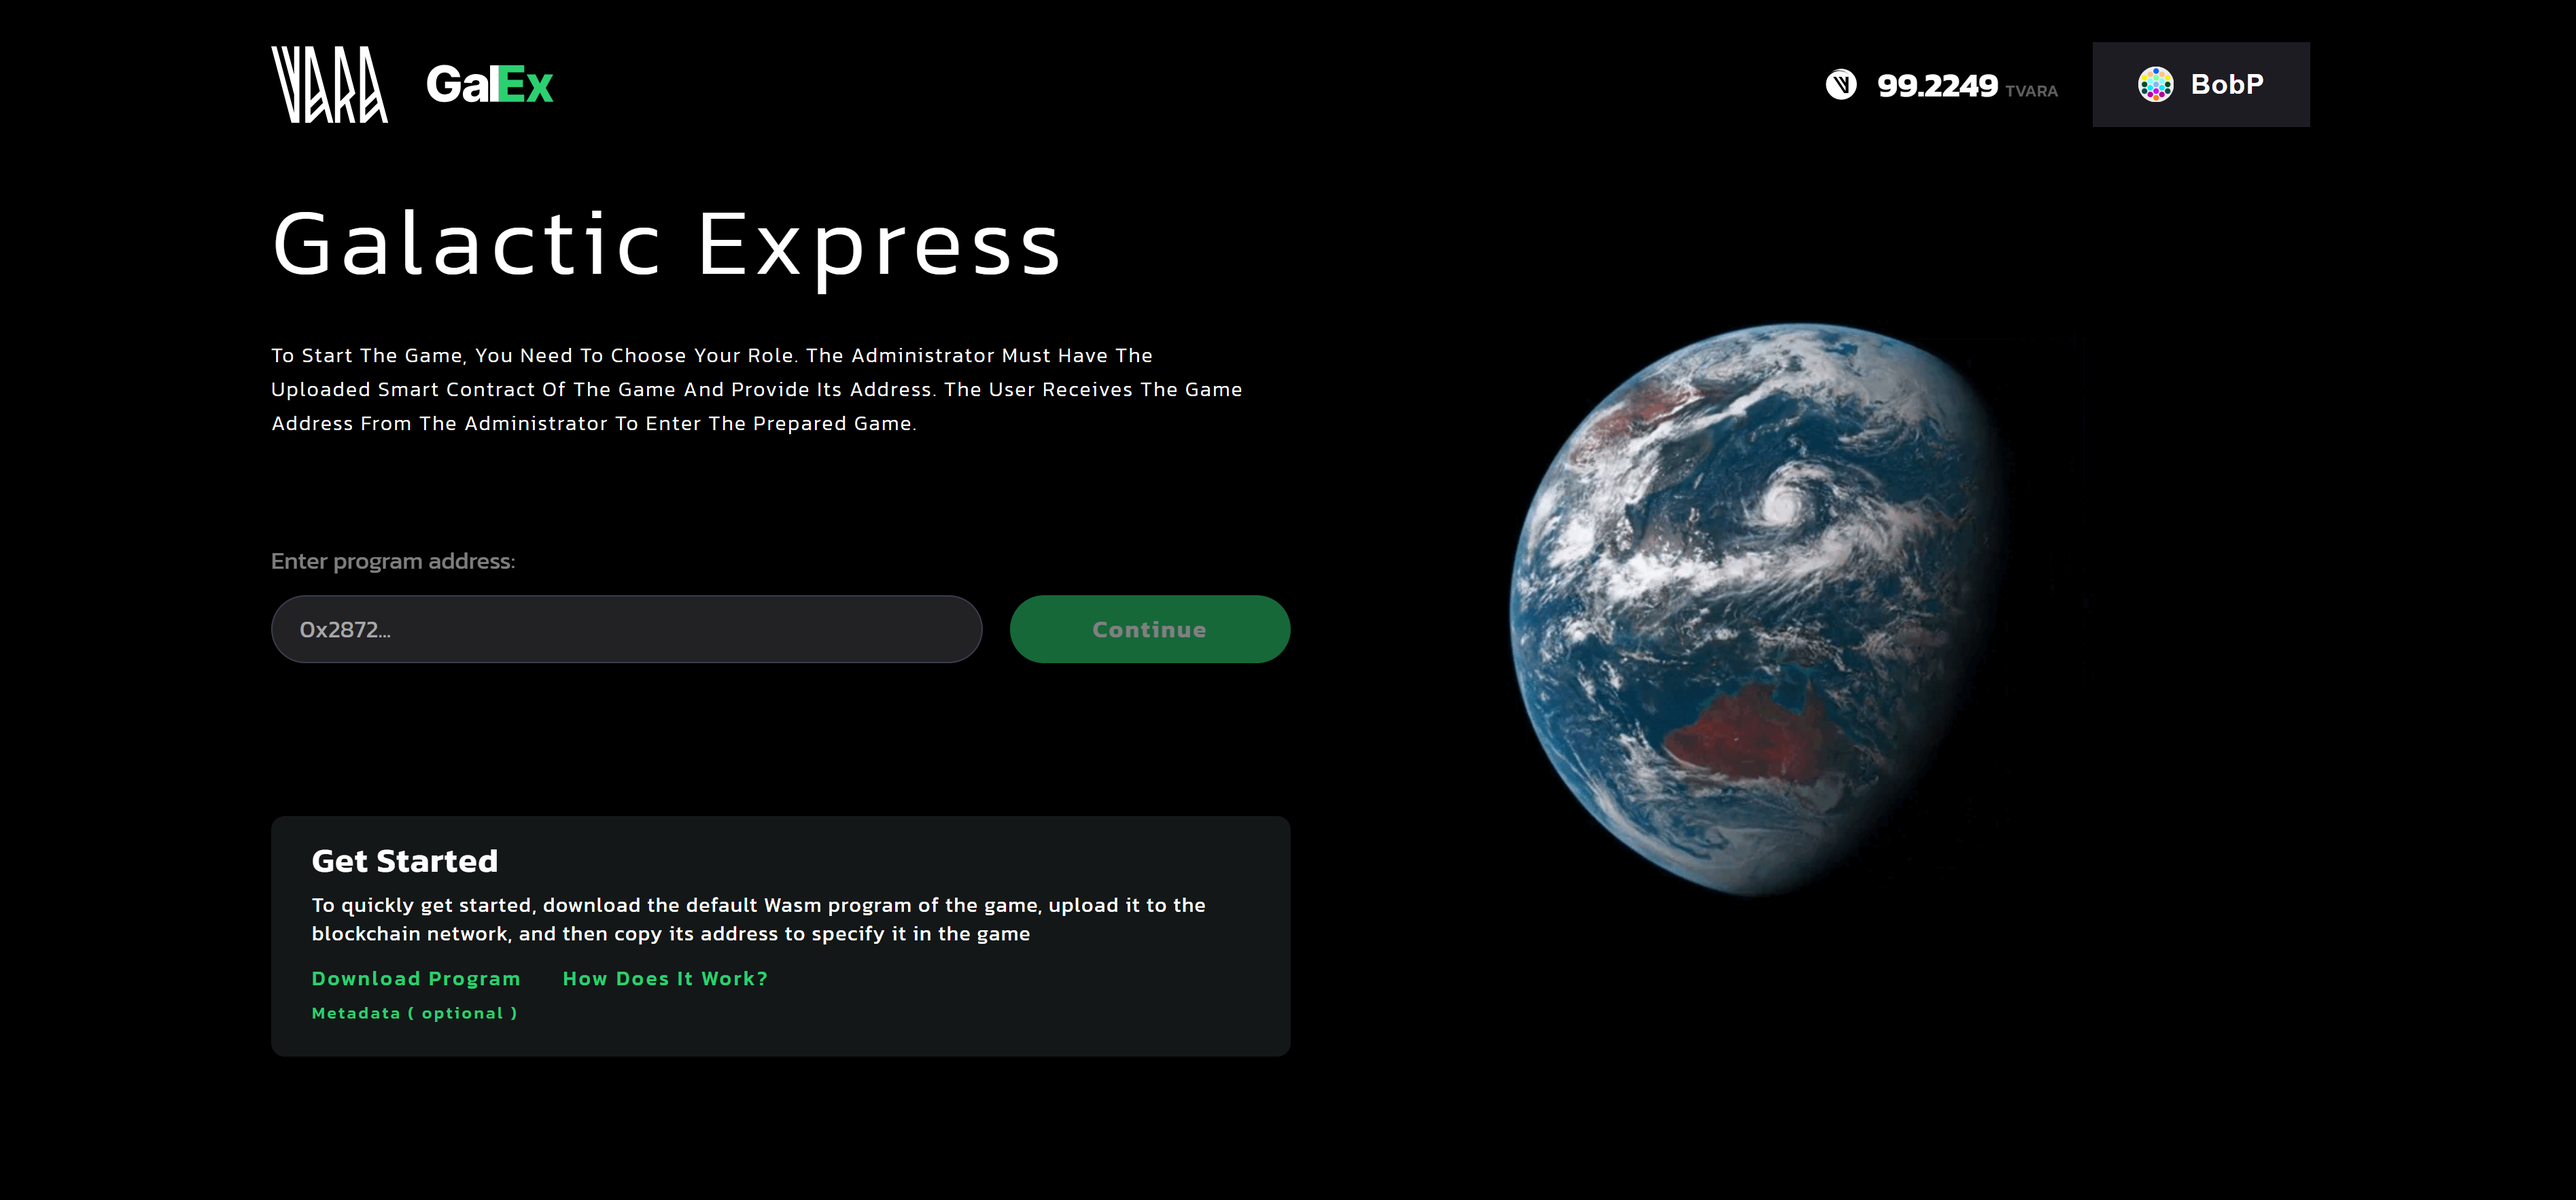
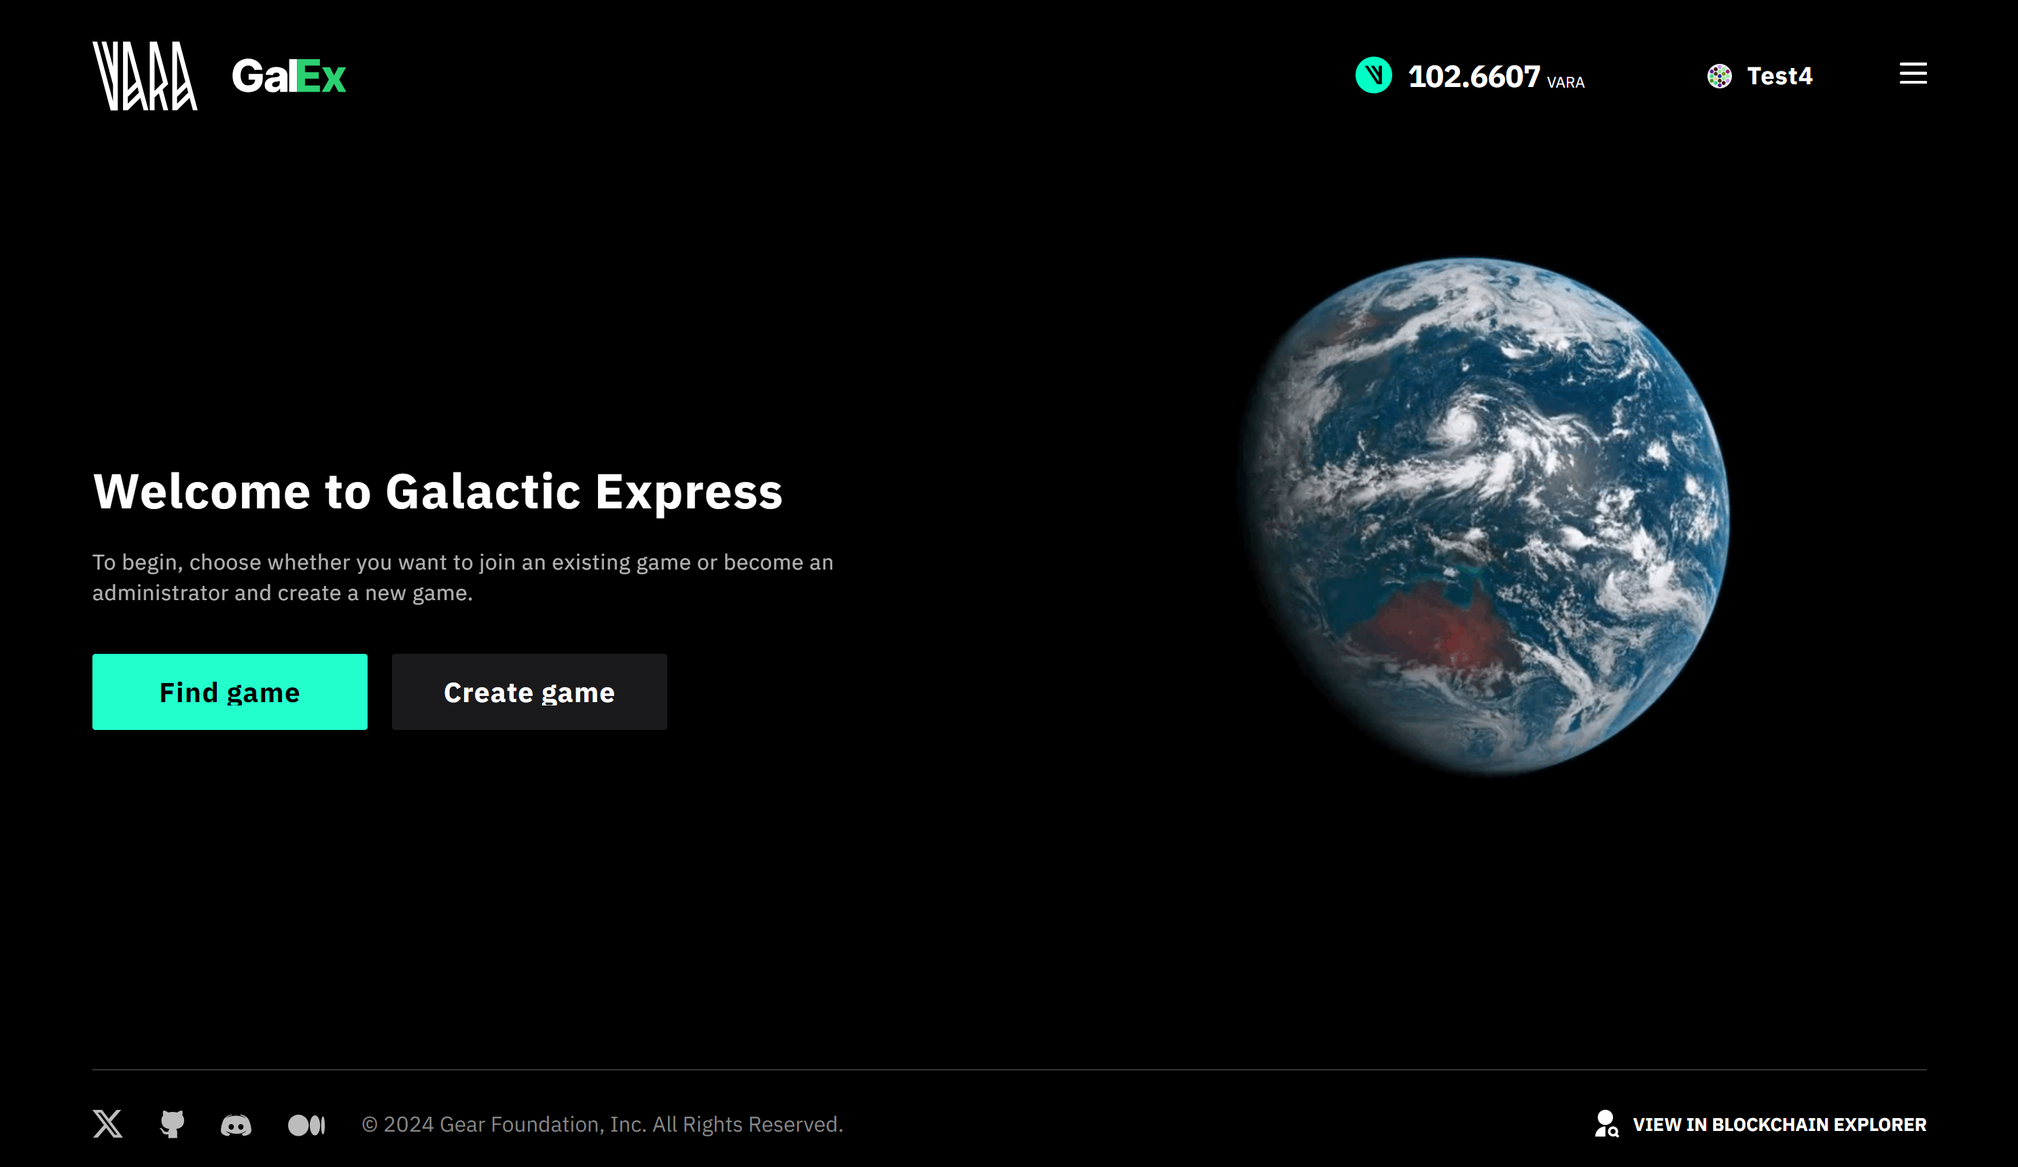
Added info about Lobbies, updted screenshot

diff --git a/docs/examples/Gaming/galactic-express.md b/docs/examples/Gaming/galactic-express.md
@@ -14,7 +14,7 @@ Players' strategic decisions about fuel allocation and target gains significantl
 
 The article explains the programming interface, data structure, basic functions and explains their purpose. It can be used as is or modified to suit your own scenarios. Anyone can easily create their own application and run it on the Vara Network. The source code is available on [GitHub](https://github.com/gear-foundation/dapps/tree/master/contracts/galactic-express).
 
-Everyone can play the game via this link - [Play Galactic Express](https://galactic-express.vara.network/).
+Everyone can play the game via this link - [Play Galactic Express](https://galactic-express.vara.network/). The game supports several simultaneous game sessions (lobbies). To start a new game, click the "Create game" button and share your account's public key with other players. To join your game, players need to click the "Find game" button and enter your account ID there.
 
 ## How to run the app locally
 

diff --git a/docs/examples/Gaming/tequila-train.md b/docs/examples/Gaming/tequila-train.md
@@ -34,7 +34,7 @@ Anyone who wants to get their train back after playing a domino to their track s
 
 The aim is to be the first player to get rid of all the dominoes in their hand. As soon as this happens, even if the last tile is a Double, the game ends.
 
-Everyone can play the game via this link - [Play Tequila Train](https://tequila-train.vara.network/).
+Everyone can play the game via this link - [Play Tequila Train](https://tequila-train.vara.network/). The game supports several simultaneous game sessions (lobbies). To start a new game, click the "Create game" button and share your account's public key with other players. To join your game, players need to click the "Find game" button and enter your account ID there.
 
 ## How to run
 
